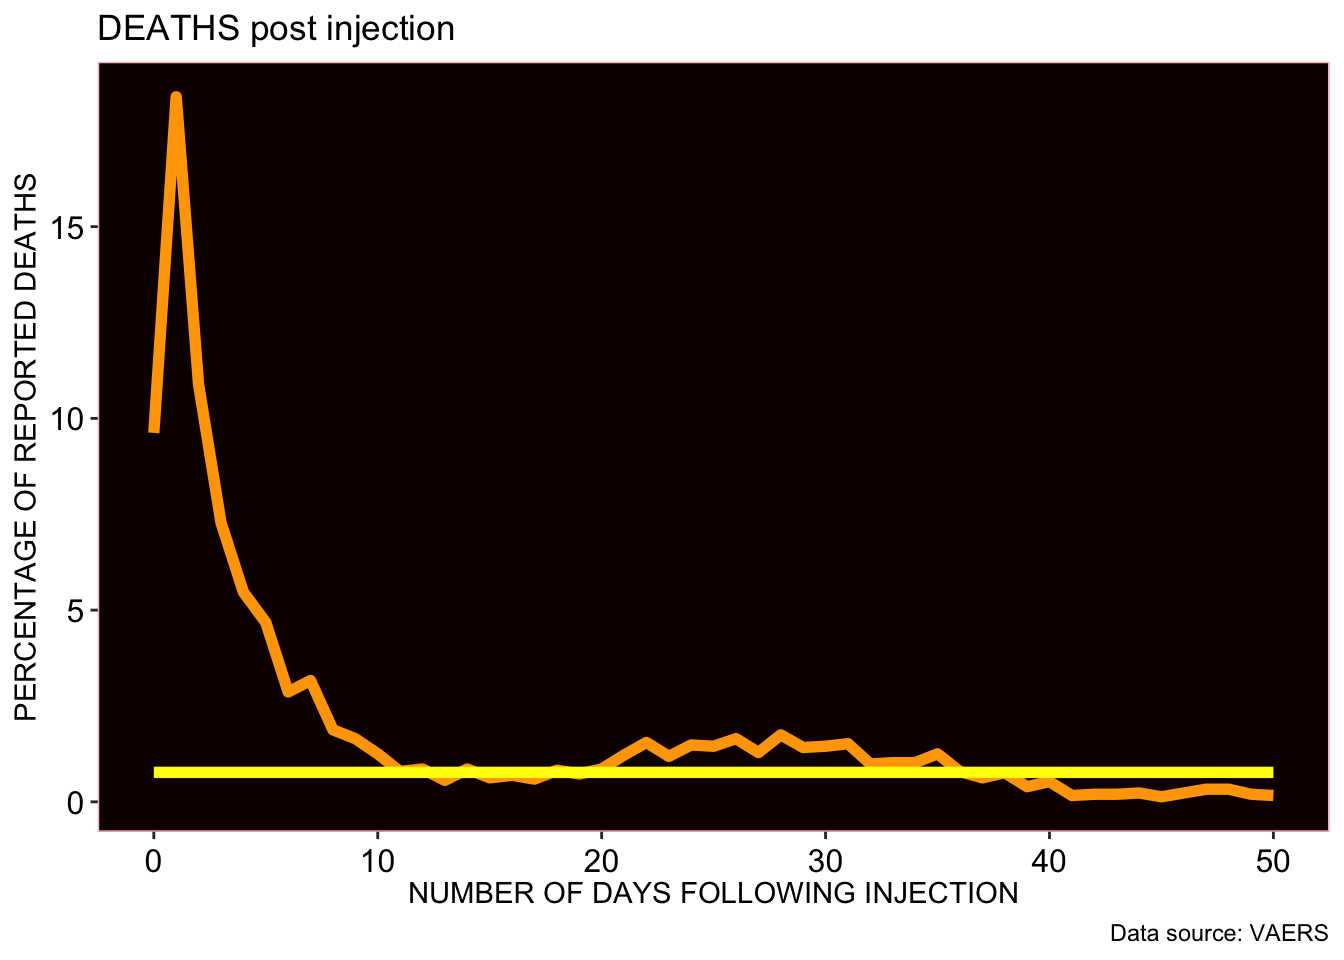
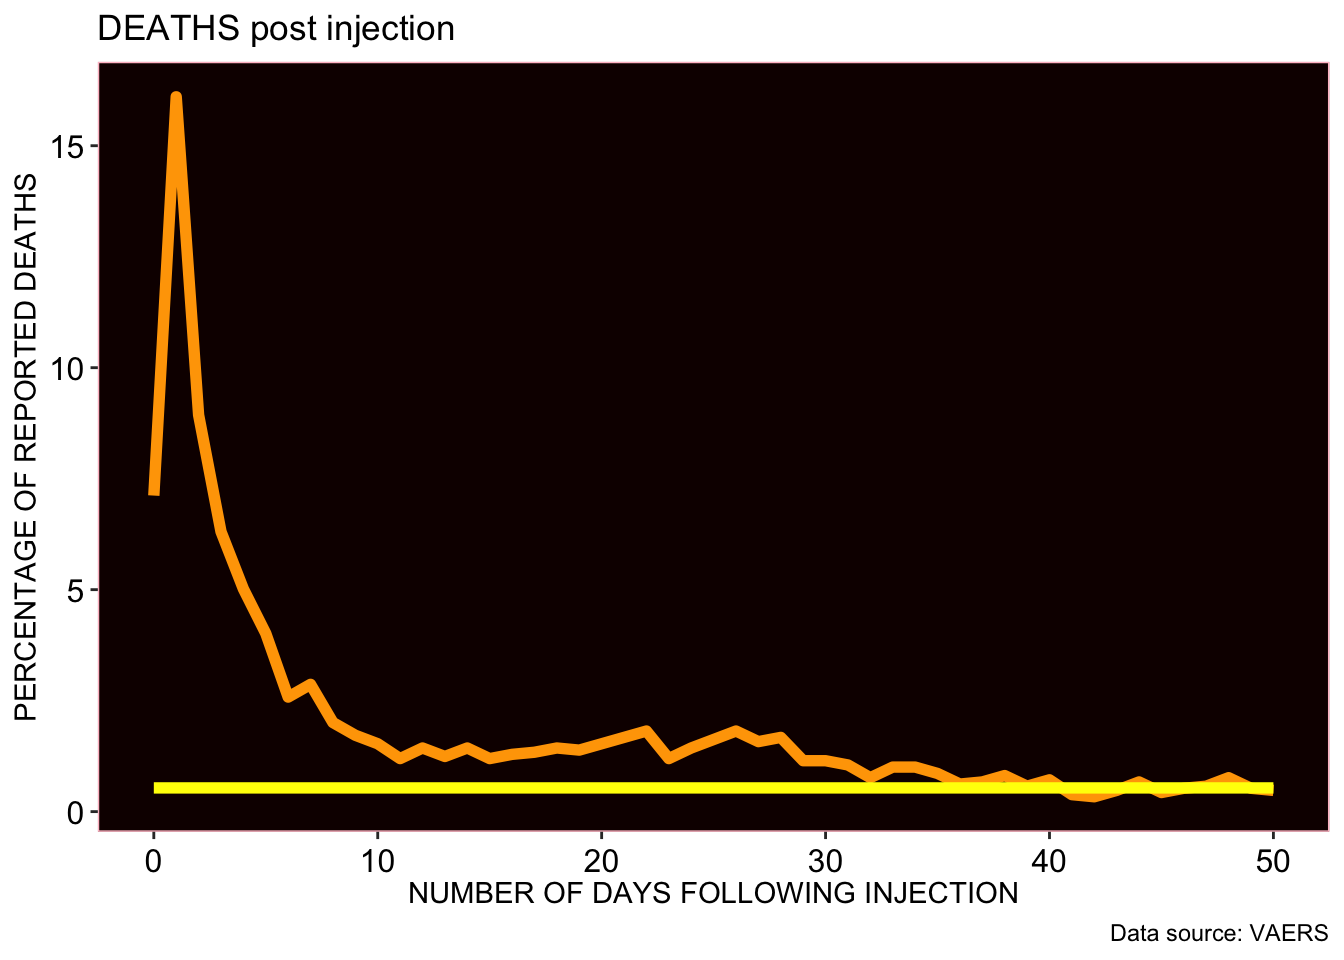
M

diff --git a/content/post/2020-12-01-r-rmarkdown/index.en.html b/content/post/2020-12-01-r-rmarkdown/index.en.html
@@ -149,15 +149,15 @@ Actual VAERS SAE percentage compared to Standard VAERS SAE percentage</p>
 ## 2      Actual 114161   18</code></pre>
 <p><img src="Figs/unnamed-chunk-35-1.png" width="672" />
 Breakthrough COVID-19 case count AND PERCENTAGE of total ID count</p>
-<pre><code>## [1] 26974</code></pre>
-<pre><code>## [1] 4.195062</code></pre>
+<pre><code>## [1] 26975</code></pre>
+<pre><code>## [1] 4.195218</code></pre>
 <p><img src="Figs/unnamed-chunk-39-1.png" width="672" />
 <img src="Figs/unnamed-chunk-40-1.png" width="672" />
 <img src="Figs/unnamed-chunk-41-1.png" width="672" /></p>
 <div id="htmlwidget-1" style="width:672px;height:480px;" class="plotly html-widget"></div>
-<script type="application/json" data-for="htmlwidget-1">{"x":{"visdat":{"fa477259f406":["function () ","plotlyVisDat"]},"cur_data":"fa477259f406","attrs":{"fa477259f406":{"labels":{},"values":{},"alpha_stroke":1,"sizes":[10,100],"spans":[1,20],"type":"pie"}},"layout":{"margin":{"b":40,"l":60,"t":25,"r":10},"title":"BREAKTHROUGH COVID-19 CASES BY MANUFACTURER","xaxis":{"showgrid":false,"zeroline":false,"showticklabels":false},"yaxis":{"showgrid":false,"zeroline":false,"showticklabels":false},"hovermode":"closest","showlegend":true},"source":"A","config":{"showSendToCloud":false},"data":[{"labels":["JANSSEN","MODERNA","PFIZER\\BIONTECH"],"values":[9.71,32.18,57.19],"type":"pie","marker":{"color":"rgba(31,119,180,1)","line":{"color":"rgba(255,255,255,1)"}},"frame":null}],"highlight":{"on":"plotly_click","persistent":false,"dynamic":false,"selectize":false,"opacityDim":0.2,"selected":{"opacity":1},"debounce":0},"shinyEvents":["plotly_hover","plotly_click","plotly_selected","plotly_relayout","plotly_brushed","plotly_brushing","plotly_clickannotation","plotly_doubleclick","plotly_deselect","plotly_afterplot","plotly_sunburstclick"],"base_url":"https://plot.ly"},"evals":[],"jsHooks":[]}</script>
+<script type="application/json" data-for="htmlwidget-1">{"x":{"visdat":{"106dc6a1c47be":["function () ","plotlyVisDat"]},"cur_data":"106dc6a1c47be","attrs":{"106dc6a1c47be":{"labels":{},"values":{},"alpha_stroke":1,"sizes":[10,100],"spans":[1,20],"type":"pie"}},"layout":{"margin":{"b":40,"l":60,"t":25,"r":10},"title":"BREAKTHROUGH COVID-19 CASES BY MANUFACTURER","xaxis":{"showgrid":false,"zeroline":false,"showticklabels":false},"yaxis":{"showgrid":false,"zeroline":false,"showticklabels":false},"hovermode":"closest","showlegend":true},"source":"A","config":{"showSendToCloud":false},"data":[{"labels":["JANSSEN","MODERNA","PFIZER\\BIONTECH"],"values":[9.71,32.18,57.19],"type":"pie","marker":{"color":"rgba(31,119,180,1)","line":{"color":"rgba(255,255,255,1)"}},"frame":null}],"highlight":{"on":"plotly_click","persistent":false,"dynamic":false,"selectize":false,"opacityDim":0.2,"selected":{"opacity":1},"debounce":0},"shinyEvents":["plotly_hover","plotly_click","plotly_selected","plotly_relayout","plotly_brushed","plotly_brushing","plotly_clickannotation","plotly_doubleclick","plotly_deselect","plotly_afterplot","plotly_sunburstclick"],"base_url":"https://plot.ly"},"evals":[],"jsHooks":[]}</script>
 <div id="htmlwidget-2" style="width:672px;height:480px;" class="plotly html-widget"></div>
-<script type="application/json" data-for="htmlwidget-2">{"x":{"visdat":{"fa477406b732":["function () ","plotlyVisDat"]},"cur_data":"fa477406b732","attrs":{"fa477406b732":{"labels":{},"values":{},"alpha_stroke":1,"sizes":[10,100],"spans":[1,20],"type":"pie"}},"layout":{"margin":{"b":40,"l":60,"t":25,"r":10},"title":"BREAKTHROUGH COVID-19 CASES RESULTING IN DEATH BY AGE GROUP","xaxis":{"showgrid":false,"zeroline":false,"showticklabels":false},"yaxis":{"showgrid":false,"zeroline":false,"showticklabels":false},"hovermode":"closest","showlegend":true},"source":"A","config":{"showSendToCloud":false},"data":[{"labels":["B. 10-20","C. 20-30","D. 30-40","E. 40-50","F. 50-60","G. 60-70","H. 70-80","I. 80-90","J. 90-100","K. 100-110"],"values":[0.01,0.02,0.08,0.18,0.5,1.43,2.13,2.3,0.87,0.06],"type":"pie","marker":{"color":"rgba(31,119,180,1)","line":{"color":"rgba(255,255,255,1)"}},"frame":null}],"highlight":{"on":"plotly_click","persistent":false,"dynamic":false,"selectize":false,"opacityDim":0.2,"selected":{"opacity":1},"debounce":0},"shinyEvents":["plotly_hover","plotly_click","plotly_selected","plotly_relayout","plotly_brushed","plotly_brushing","plotly_clickannotation","plotly_doubleclick","plotly_deselect","plotly_afterplot","plotly_sunburstclick"],"base_url":"https://plot.ly"},"evals":[],"jsHooks":[]}</script>
+<script type="application/json" data-for="htmlwidget-2">{"x":{"visdat":{"106dc33a9b6fa":["function () ","plotlyVisDat"]},"cur_data":"106dc33a9b6fa","attrs":{"106dc33a9b6fa":{"labels":{},"values":{},"alpha_stroke":1,"sizes":[10,100],"spans":[1,20],"type":"pie"}},"layout":{"margin":{"b":40,"l":60,"t":25,"r":10},"title":"BREAKTHROUGH COVID-19 CASES RESULTING IN DEATH BY AGE GROUP","xaxis":{"showgrid":false,"zeroline":false,"showticklabels":false},"yaxis":{"showgrid":false,"zeroline":false,"showticklabels":false},"hovermode":"closest","showlegend":true},"source":"A","config":{"showSendToCloud":false},"data":[{"labels":["B. 10-20","C. 20-30","D. 30-40","E. 40-50","F. 50-60","G. 60-70","H. 70-80","I. 80-90","J. 90-100","K. 100-110"],"values":[0.01,0.02,0.08,0.18,0.5,1.43,2.13,2.3,0.87,0.06],"type":"pie","marker":{"color":"rgba(31,119,180,1)","line":{"color":"rgba(255,255,255,1)"}},"frame":null}],"highlight":{"on":"plotly_click","persistent":false,"dynamic":false,"selectize":false,"opacityDim":0.2,"selected":{"opacity":1},"debounce":0},"shinyEvents":["plotly_hover","plotly_click","plotly_selected","plotly_relayout","plotly_brushed","plotly_brushing","plotly_clickannotation","plotly_doubleclick","plotly_deselect","plotly_afterplot","plotly_sunburstclick"],"base_url":"https://plot.ly"},"evals":[],"jsHooks":[]}</script>
 <p>Female Reproductive Events count</p>
 <pre><code>##  [1] &quot;Abnormal uterine bleeding&quot;                 
 ##  [2] &quot;Afterbirth pain&quot;                           
@@ -219,7 +219,7 @@ Breakthrough COVID-19 case count AND PERCENTAGE of total ID count</p>
 ##  Chi-squared test for given probabilities
 ## 
 ## data:  FRI_CASES_VD_OD$OBSERVED
-## X-squared = 36491, df = 50, p-value &lt; 2.2e-16</code></pre>
+## X-squared = 30165, df = 50, p-value &lt; 2.2e-16</code></pre>
 <p>Cumulative FRI cases as per update - rates increasing.
 <img src="Figs/unnamed-chunk-53-1.png" width="672" />
 Heatmap showing Female Reproductive Issues wrt VAX DATE and ONSET DATE. Early April shows a clustering of intersecting points.
@@ -270,12 +270,12 @@ Cardiac Events Count</p>
 This is the number of kids aged 12-18 reported to VAERS with AEs, the percentage of the total AEs reported and a histogram showing age group distribution.</p>
 <pre><code>## [1] 27872</code></pre>
 <p><img src="Figs/unnamed-chunk-60-1.png" width="672" /></p>
-<pre><code>## [1] 16019</code></pre>
-<pre><code>## [1] 2.491314</code></pre>
+<pre><code>## [1] 26918</code></pre>
+<pre><code>## [1] 4.186353</code></pre>
 <p>And this is a heatmap showing 1:1 correlation between onset of AE and injection date.
 <img src="Figs/unnamed-chunk-62-1.png" width="672" /></p>
-<pre><code>## # A tibble: 1,261 × 4
-## # Groups:   VAX_DATE, ONSET_DATE [1,261]
+<pre><code>## # A tibble: 2,371 × 4
+## # Groups:   VAX_DATE, ONSET_DATE [2,371]
 ##    VAX_DATE   ONSET_DATE diff_in_days     n
 ##    &lt;date&gt;     &lt;date&gt;     &lt;drtn&gt;       &lt;int&gt;
 ##  1 2021-05-14 2021-05-14 0 days         250
@@ -283,15 +283,15 @@ This is the number of kids aged 12-18 reported to VAERS with AEs, the percentage
 ##  3 2021-05-15 2021-05-15 0 days         216
 ##  4 2021-05-13 2021-05-13 0 days         206
 ##  5 2021-05-18 2021-05-18 0 days         202
-##  6 2021-05-21 2021-05-21 0 days         186
-##  7 2021-05-20 2021-05-20 0 days         176
-##  8 2021-05-17 2021-05-17 0 days         174
-##  9 2021-05-22 2021-05-22 0 days         174
-## 10 2021-05-16 2021-05-16 0 days         152
-## # … with 1,251 more rows</code></pre>
+##  6 2021-07-04 2021-07-04 0 days         201
+##  7 2021-05-21 2021-05-21 0 days         186
+##  8 2021-06-04 2021-06-04 0 days         185
+##  9 2021-09-04 2021-09-04 0 days         182
+## 10 2021-08-04 2021-08-04 0 days         179
+## # … with 2,361 more rows</code></pre>
 <p>Here we have the percentage of cardiac cases for kids aged 12-15 of the total youth population (12-18) in VAERS, the percentage of cardiac AEs that come from youths and the percentage of cardiac cases in kids aged 12-15 of the total cardiac AEs.</p>
-<pre><code>## [1] 24.73313</code></pre>
-<pre><code>## [1] 8.32385</code></pre>
+<pre><code>## [1] 14.71878</code></pre>
+<pre><code>## [1] 13.98723</code></pre>
 <pre><code>## [1] 2.058749</code></pre>
 <p>Immunological Adverse Effects Count</p>
 <pre><code>##  [1] &quot;Anaphylactic reaction&quot;                                
@@ -376,14 +376,29 @@ This is the number of kids aged 12-18 reported to VAERS with AEs, the percentage
 ## [80] &quot;Viral rash&quot;                                           
 ## [81] &quot;Systemic scleroderma&quot;</code></pre>
 <p>Here we have the total AE count for immunological adverse events as per the list above. This is a very short list as compared with the total number of immunological AEs. It is merely a representation.</p>
-<pre><code>## [1] 198063</code></pre>
+<pre><code>## [1] 198064</code></pre>
 <p><img src="Figs/unnamed-chunk-68-1.png" width="672" />
 This is a histogram showing death distribution according to age group. We also have a time series plot showing clustering of data around day 1 following injection. And! We have a heatmap confirming strong correlation between injection date and death date. R=1 -&gt; perfect correlation (look for red on diagonal).</p>
 <p>Here is a histogram showing death distribution by age group.
 <img src="Figs/unnamed-chunk-70-1.png" width="672" />
 Here is a plot showing clustering of reports around 0 and 1 in the context of death.
-<img src="Figs/unnamed-chunk-71-1.png" width="672" />
-<img src="Figs/unnamed-chunk-72-1.png" width="672" />
+<img src="Figs/unnamed-chunk-71-1.png" width="672" /></p>
+<pre><code>## # A tibble: 2,404 × 5
+## # Groups:   DIED, DATEDIED, VAX_DATE [2,404]
+##    DIED  DATEDIED   VAX_DATE   diff_in_days     n
+##    &lt;chr&gt; &lt;date&gt;     &lt;date&gt;     &lt;drtn&gt;       &lt;int&gt;
+##  1 Y     2021-01-13 2021-01-13 0 days           4
+##  2 Y     2021-01-14 2021-01-13 1 days           8
+##  3 Y     2021-01-14 2021-01-14 0 days           3
+##  4 Y     2021-01-15 2021-01-13 2 days           6
+##  5 Y     2021-01-15 2021-01-14 1 days           4
+##  6 Y     2021-01-15 2021-01-15 0 days           2
+##  7 Y     2021-01-16 2021-01-13 3 days           3
+##  8 Y     2021-01-16 2021-01-14 2 days           6
+##  9 Y     2021-01-16 2021-01-15 1 days           4
+## 10 Y     2021-01-17 2021-01-13 4 days           2
+## # … with 2,394 more rows</code></pre>
+<p><img src="Figs/unnamed-chunk-72-1.png" width="672" />
 This is a histogram showing hospitalization distribution according to age group. We also have a time series plot showing clustering of data around day 1 following injection. And! We have a heatmap confirming strong correlation between injection date and hospitalization date. R=1 -&gt; perfect correlation (look for red on diagonal).
 <img src="Figs/unnamed-chunk-73-1.png" width="672" /></p>
 <p><img src="Figs/unnamed-chunk-74-1.png" width="672" /></p>

diff --git a/content/authors/admin/_index.md b/content/authors/admin/_index.md
@@ -33,7 +33,7 @@ title: Dr. Jessica Rose
 ---
 
 Jessica Rose is a Research Fellow at the Institute for Pure and Applied Knowledge.
-
+PLEASE FEEL FREE TO DONATE TO MY RESEARCH: paypal.me/JeesicaRose
 
 FELLOWSHIP donation link: https://ipaknowledge.org/joshua-kuntz-research-fellowship.php
 
